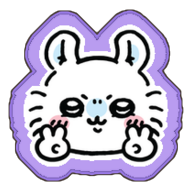
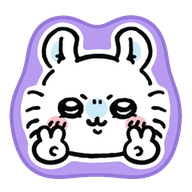
구슬 테두리를 매끈하게: 원래 얼굴 그림에서 다시 그려 울퉁불퉁하던 테두리를 둥글고 고른 두께로, 맨 바깥은 예전처럼 한 톤 진한 색 띠(12개 구슬). 홈 화면 아이콘을 친구 구슬 다섯이 크게 모인 그림으로(안드로이드 둥근 모양용은 가운데로 모음). 구슬·아이콘 주소에 ?v=2를 붙여 옛 그림이 캐시에 남지 않게

Changed region(s): [[0.0312, 0.0312, 0.9688, 0.9688]]

diff --git a/index.html b/index.html
@@ -10,8 +10,8 @@
 <meta name="mobile-web-app-capable" content="yes">
 <meta name="apple-mobile-web-app-title" content="퍼즐 토벌">
 <meta name="apple-mobile-web-app-status-bar-style" content="default">
-<link rel="apple-touch-icon" href="assets/img/app/apple-touch-icon.png">
-<link rel="icon" href="assets/img/app/icon-192.png">
+<link rel="apple-touch-icon" href="assets/img/app/apple-touch-icon.png?v=2">
+<link rel="icon" href="assets/img/app/icon-192.png?v=2">
 <link rel="preconnect" href="https://fonts.googleapis.com">
 <link href="https://fonts.googleapis.com/css2?family=Poor+Story&display=swap" rel="stylesheet">
 <link rel="stylesheet" href="css/style.css?v=53">
@@ -270,7 +270,7 @@ window.__errs = [];
 addEventListener('error', e => window.__errs.push(['error', e.message, (e.filename || '') + ':' + e.lineno + ':' + e.colno + '\n' + (e.error?.stack || '')]));
 addEventListener('unhandledrejection', e => window.__errs.push(['promise', String(e.reason?.message || e.reason), e.reason?.stack || '']));
 </script>
-<script src="js/data.js?v=37"></script>
+<script src="js/data.js?v=40"></script>
 <script src="js/audio.js?v=29"></script>
 <script src="js/board.js?v=31"></script>
 <script src="js/game.js?v=49"></script>

diff --git a/js/data.js b/js/data.js
@@ -121,7 +121,7 @@ const attrMult = (atk, def) => ((atk === 'light' && def === 'dark') || (atk === 
   : BEATS[atk] === def ? 1.5 : BEATS[def] === atk ? 0.5 : 1);
 const FACE = id => `assets/img/faces/${id}.png`;
 const BODY = id => `assets/img/chars/${id}.png`;
-const TILE = id => `assets/img/tiles/${id}.png`;
+const TILE = id => `assets/img/tiles/${id}.png?v=2`; // 테두리를 매끈하게 다시 그려서 새로 받게
 // 아이템은 치이카와 원작 도구로: 줄폭탄=랏코 검, 폭탄=동글 폭탄, 무지개=경단, 비행기=종이비행기 (VARCO로 그림)
 const ITEM_ALIAS = { rocket: 'sword_o', bomb: 'bombball_o', rainbow: 'dango3_o', plane: 'paperplane_o' }; // _o: 테두리를 그림에 미리 그려 둔 판 (CSS 필터는 보너스 타임에 렉)
 const ITEM = name => `assets/img/items/${ITEM_ALIAS[name] || name}.png`;
